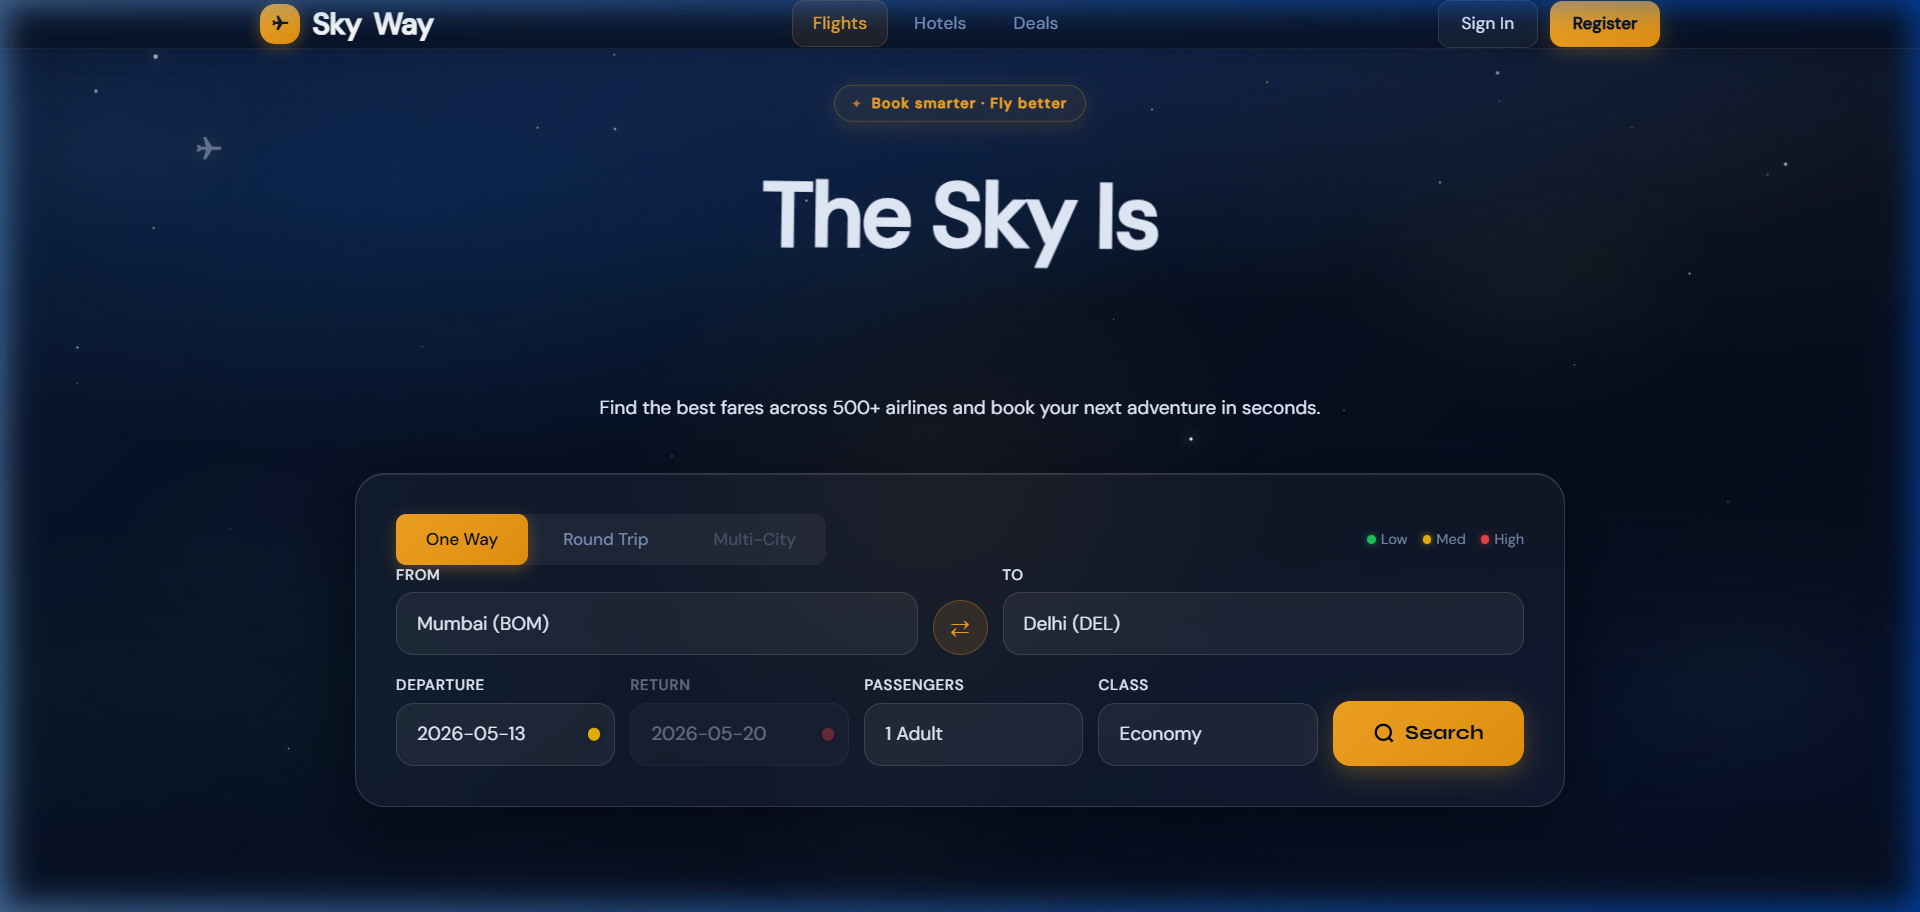
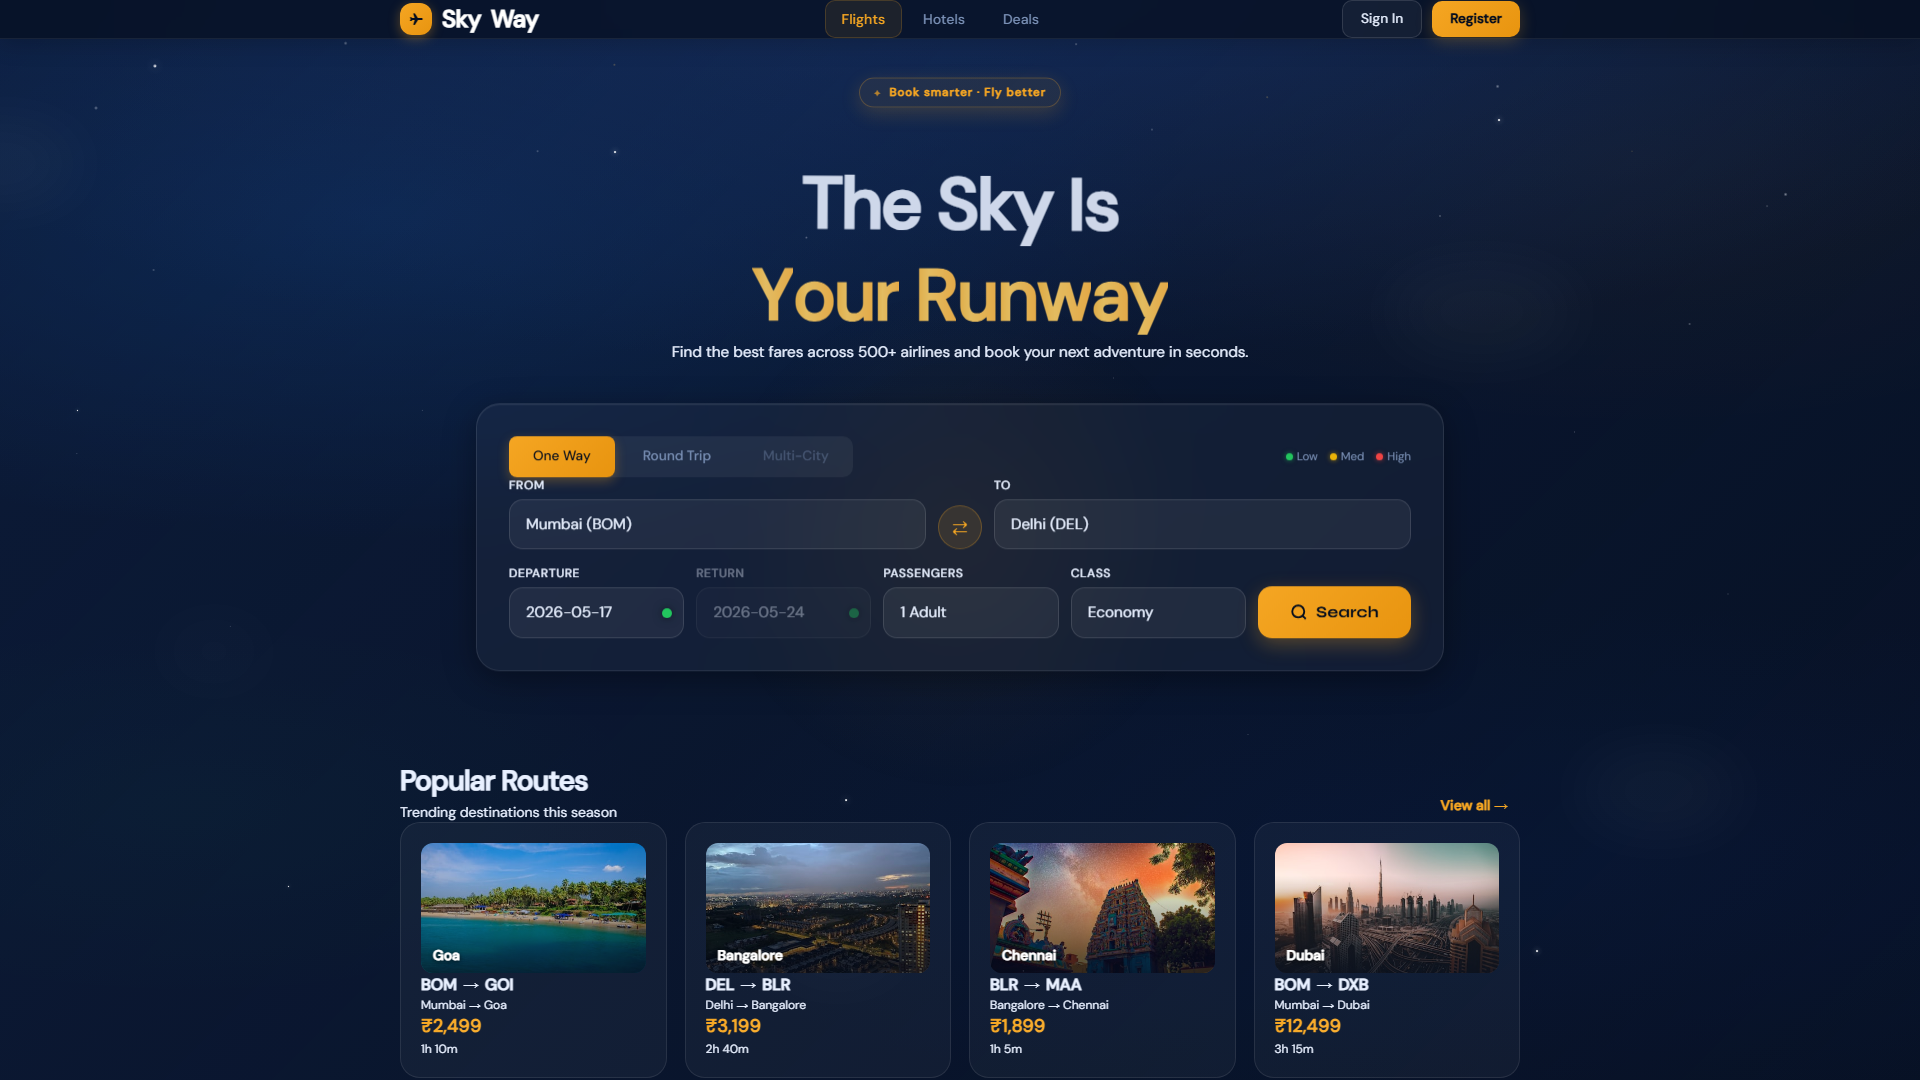
Commit changes

diff --git a/client/src/components/PageHero.jsx b/client/src/components/PageHero.jsx
@@ -4,18 +4,30 @@ import { useEffect, useRef, useState } from 'react'
 function FloatLetters({ text, baseDelay = 0, gradient = false }) {
   return (
     <>
-      {text.split('').map((ch, i) => (
-        <span
-          key={i}
-          style={{
-            display: 'inline-block',
-            animation: `letterFloat 3.5s ease-in-out ${(baseDelay + i * 0.07).toFixed(2)}s infinite alternate`,
-            whiteSpace: ch === ' ' ? 'pre' : undefined,
-          }}
-        >
-          {ch === ' ' ? '\u00A0' : ch}
-        </span>
-      ))}
+      {text.split('').map((ch, i) => {
+        const floatAnim = `letterFloat 3.5s ease-in-out ${(baseDelay + i * 0.07).toFixed(2)}s infinite alternate`
+        const shimmerAnim = `shimmerText 3s linear infinite`
+        
+        return (
+          <span
+            key={i}
+            style={{
+              display: 'inline-block',
+              animation: gradient ? `${floatAnim}, ${shimmerAnim}` : floatAnim,
+              whiteSpace: ch === ' ' ? 'pre' : undefined,
+              ...(gradient ? {
+                background: 'linear-gradient(90deg, #f5a623 0%, #ffd166 35%, #ffbe4d 65%, #f5a623 100%)',
+                WebkitBackgroundClip: 'text',
+                WebkitTextFillColor: 'transparent',
+                backgroundClip: 'text',
+                backgroundSize: '200% auto',
+              } : {})
+            }}
+          >
+            {ch === ' ' ? '\u00A0' : ch}
+          </span>
+        )
+      })}
     </>
   )
 }
@@ -157,10 +169,6 @@ export default function PageHero({
             {/* Line 2 — shimmer gold */}
             <span style={{
               display: inlineTitle ? 'inline-block' : 'block', textAlign: 'center',
-              background: 'linear-gradient(90deg, #f5a623 0%, #ffd166 35%, #ffbe4d 65%, #f5a623 100%)',
-              WebkitBackgroundClip: 'text', WebkitTextFillColor: 'transparent',
-              backgroundClip: 'text', backgroundSize: '200% auto',
-              animation: 'shimmerText 3s linear infinite',
             }}>
               <FloatLetters text={line2} baseDelay={line1 ? 0.55 : 0} gradient />
             </span>